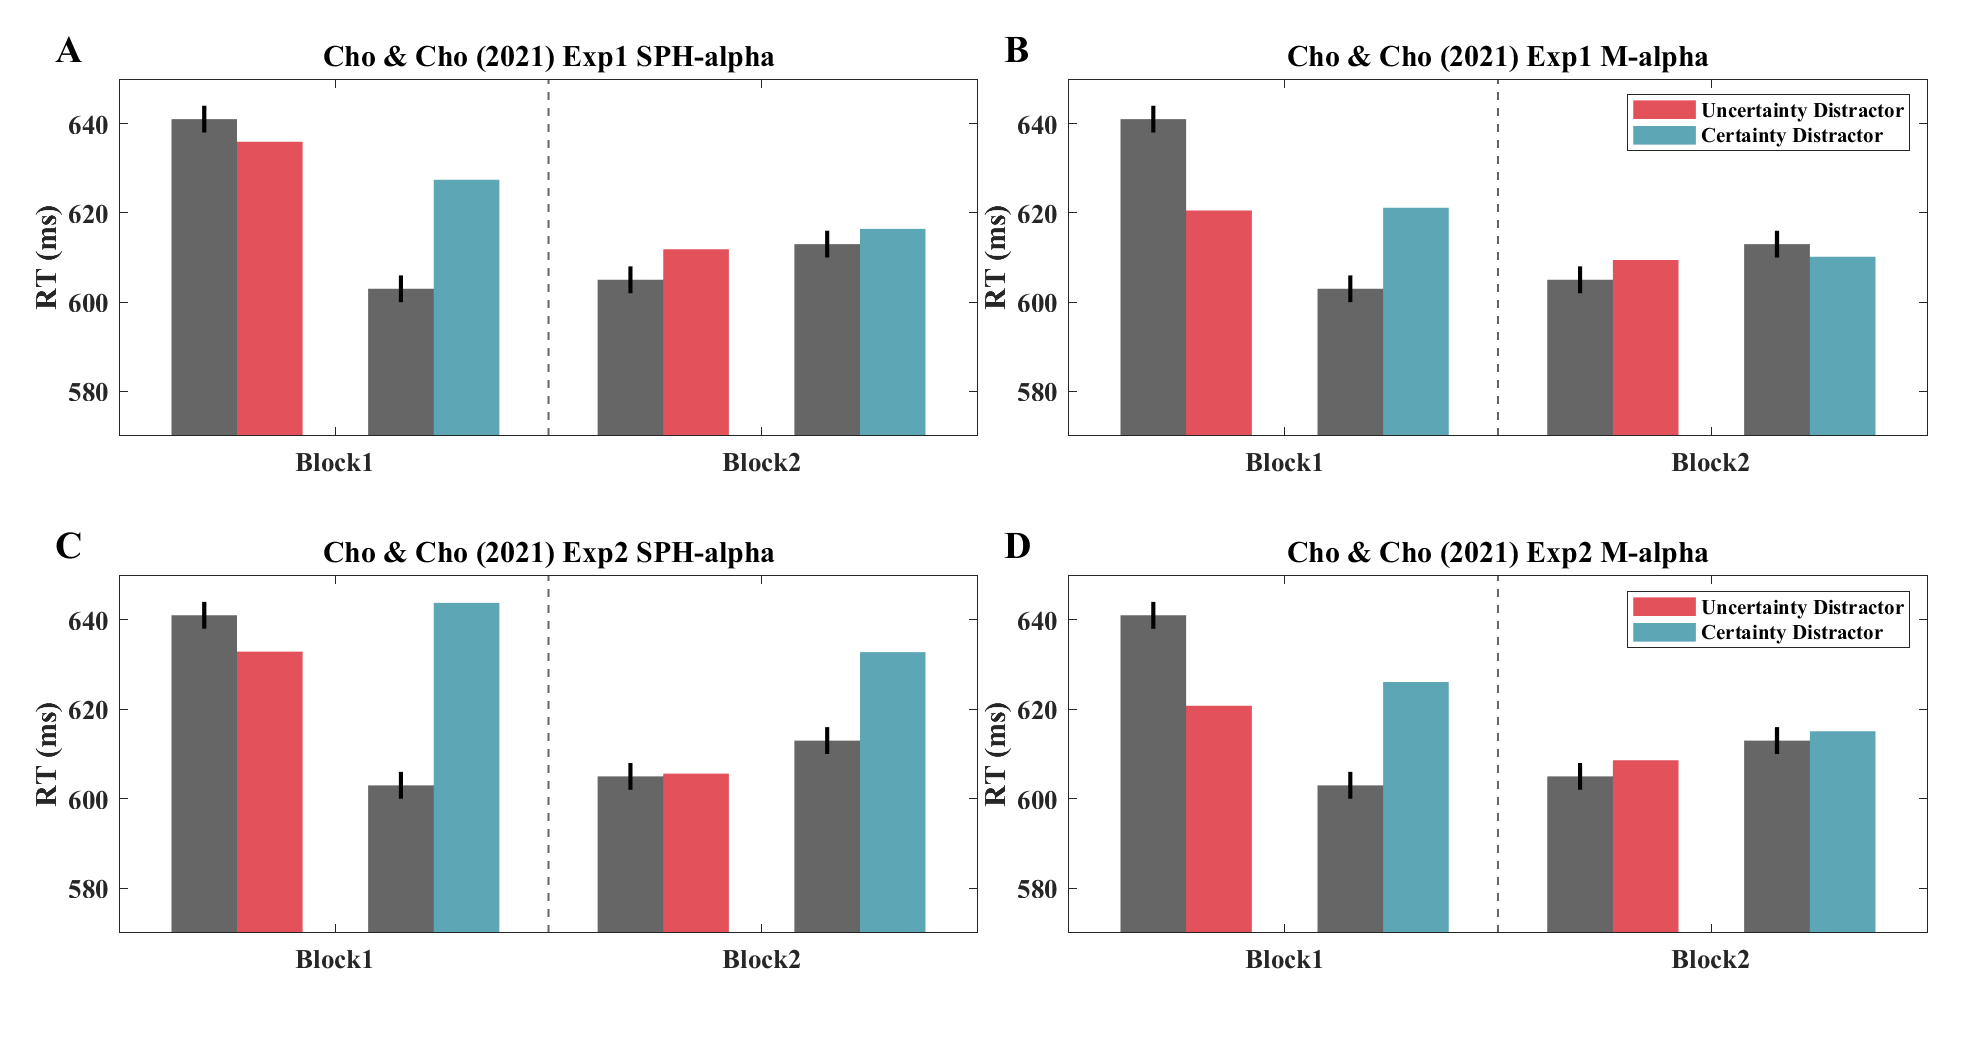
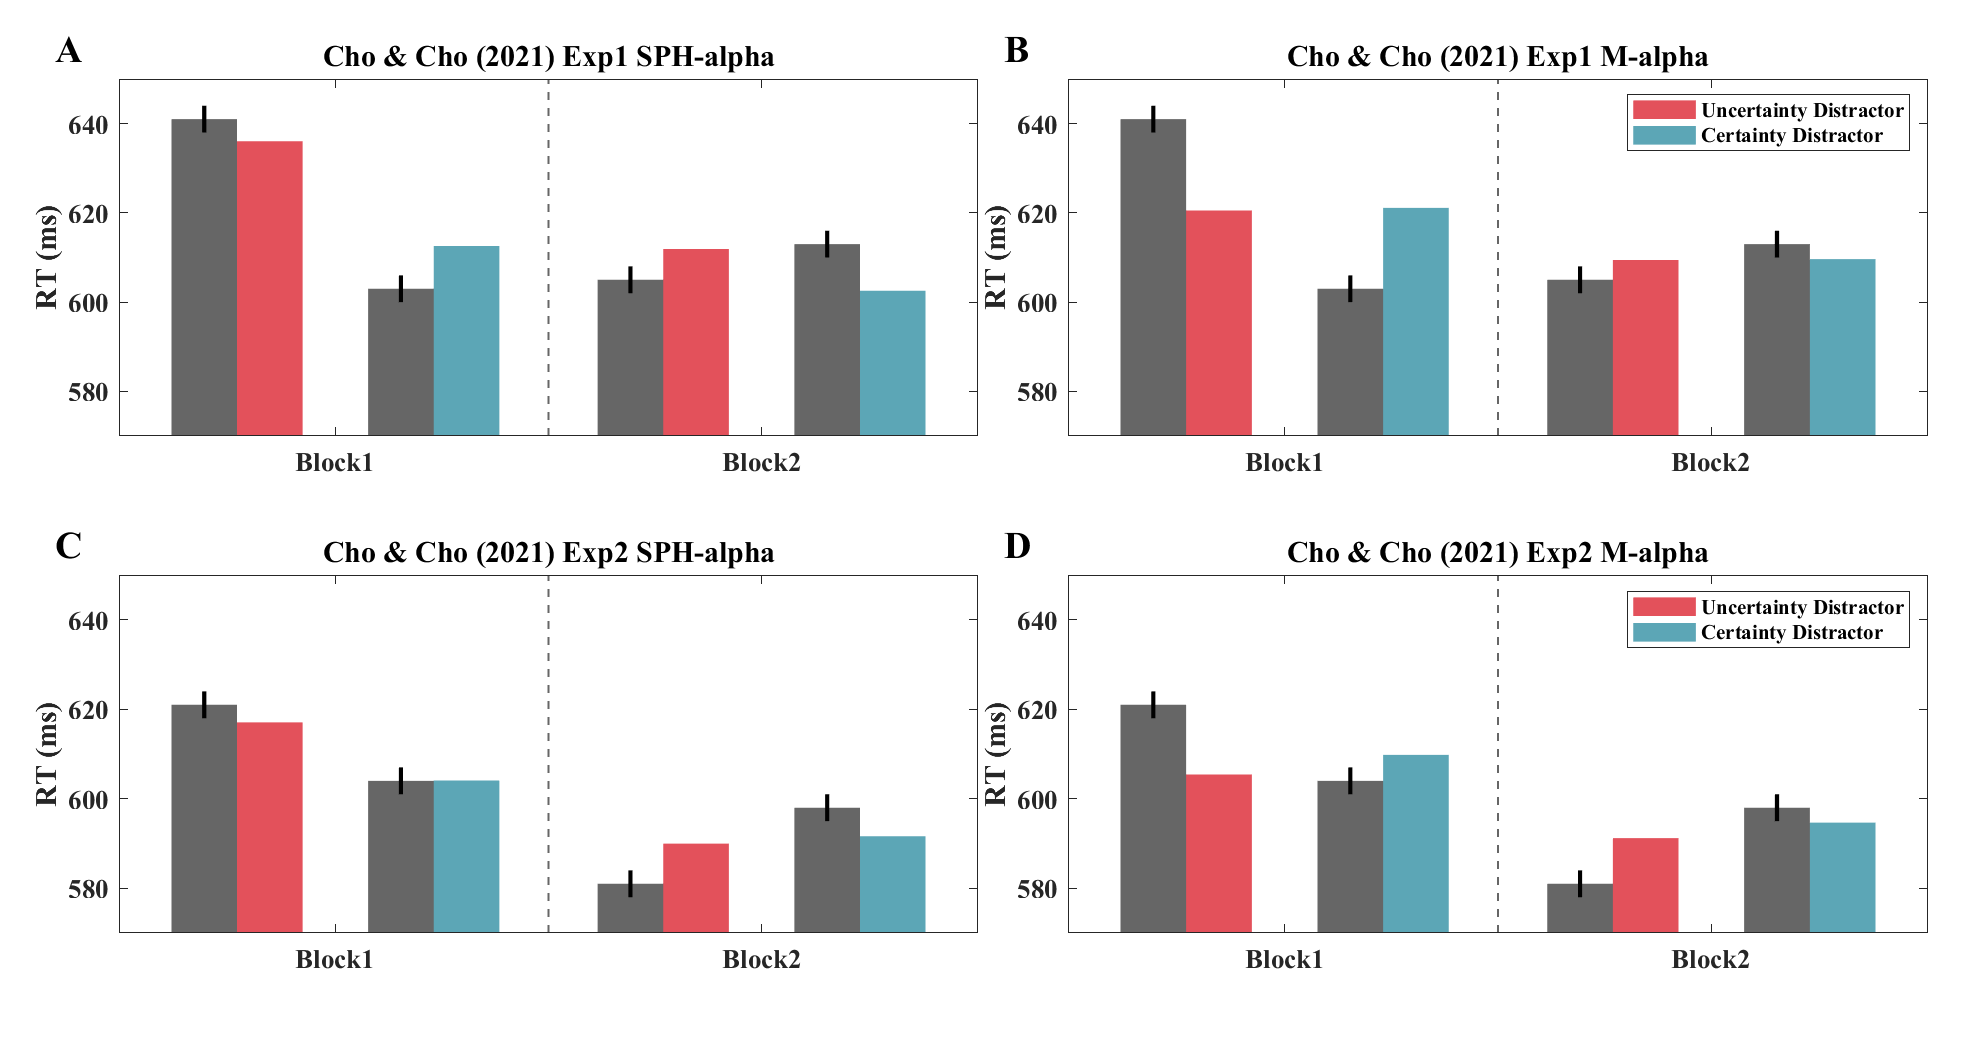
Figure modified (Fig3, Fig9)

diff --git a/VDAC/Figures/Fig3.m b/VDAC/Figures/Fig3.m
@@ -14,10 +14,10 @@ num_repeat = 500;
 
 fig = figure(3);
 clf(fig);
-fig.Position = [-1572,229,1265,671];
+fig.Position = [-1572,29,1265,895];
 
 %%%%%%%%%%%%%%%%%%%%%%%%%%%%%%%%%%%
-%%            Figure 3a          %%
+%%          Figure 3a top        %%
 %%%%%%%%%%%%%%%%%%%%%%%%%%%%%%%%%%%
 Anderson_et_al_PLOS1_2011;
 model = 'M';
@@ -25,10 +25,10 @@ value = 'alpha';
 Anderson_et_al_PLOS1_2011_result = load(strcat('../result_nll/Anderson_et_al_PLOS1_2011/', value, '/Anderson_et_al_PLOS1_2011_', value, '_result.mat'));
 X = Anderson_et_al_PLOS1_2011_result.output_result.(model).x;
 
-[negativeloglikelihood, V, alpha, SimulationResult, ExperimentResult, Model_element_number] = computeNLL2(X, schedule, model, num_repeat, ExperimentData, value);
+[negativeloglikelihood, V, alpha, SimulationResult, ExperimentResult, Model_element_number] = computeNLL_AndersonPLOS1(X, schedule, model, num_repeat, ExperimentData, value);
 
 % Plot
-ax1 = subplot(3,10,1:10);
+ax1 = subplot(4,10,1:10);
 hold on;
 [~,plot_1] = plot_shade(ax1, mean(alpha(:,1,:),3), std(alpha(:,1,:),0,3),'Color',CC.high,'LineWidth',2.3,'Shade',true);
 [~,plot_2] = plot_shade(ax1, mean(alpha(:,2,:),3), std(alpha(:,2,:),0,3),'Color',CC.low,'LineWidth',2,'Shade',true);
@@ -46,17 +46,17 @@ t.FontSize = 13;
 set(ax1, 'FontName', 'Times New Roman Bold');
 set(ax1, 'FontSize', 13);
 legend([plot_1{1}, plot_2{1}], {'high EV', 'low EV'}, 'FontSize',10);
-text(-50,250,'A', 'FontSize', 18, 'FontName', 'Times New Roman Bold', 'Units', 'pixels');
+text(-50,170,'A', 'FontSize', 18, 'FontName', 'Times New Roman Bold', 'Units', 'pixels');
 
 % Extend?
 ax1.Position = [ax1.Position(1)-0.07, ax1.Position(2), ax1.Position(3)+0.07*2, ax1.Position(4)];
 
 %%%%%%%%%%%%%%%%%%%%%%%%%%%%%%%%%%%
-%%            Figure 3b          %%
+%%          Figure 3a bot        %%
 %%%%%%%%%%%%%%%%%%%%%%%%%%%%%%%%%%%
 ax2 = cell(10,1);
 for i = 1 : 10
-    ax2{i} = subplot(3,10,10+i);
+    ax2{i} = subplot(4,10,10+i);
     cla(ax2{i});
     ax2{i}.View = [90, -90];
     hold on;
@@ -78,25 +78,91 @@ yticklabels({'900', '1000'});
 
 
 for i = 1 : 10
-    ax2{i}.Position = [ax2{i}.Position(1)-0.07+(0.012*(i-1)), ax2{i}.Position(2)+0.03, ax2{i}.Position(3)+0.03, ax2{i}.Position(4)+0.03];
+    ax2{i}.Position = [ax2{i}.Position(1)-0.07+(0.012*(i-1)), ax2{i}.Position(2)+0.01, ax2{i}.Position(3)+0.03, ax2{i}.Position(4)+0.03];
 end
 
+%%%%%%%%%%%%%%%%%%%%%%%%%%%%%%%%%%%
+%%            Figure 3b          %%
+%%%%%%%%%%%%%%%%%%%%%%%%%%%%%%%%%%%
+value = 'V';
+model = 'RW';
+Anderson_et_al_PLOS1_2011_result = load(strcat('../result_nll/Anderson_et_al_PLOS1_2011/', value, '/Anderson_et_al_PLOS1_2011_', value, '_result.mat'));
+X = Anderson_et_al_PLOS1_2011_result.output_result.(model).x;
+
+[negativeloglikelihood, V, alpha, SimulationResult, ExperimentResult, Model_element_number] = computeNLL_AndersonPLOS1(X, schedule, model, num_repeat, ExperimentData, value);
+
+% Plot
+ax3 = subplot(4,10,21:25);
+hold on;
+[~,plot_1] = plot_shade(ax3, mean(V(:,1,:),3), std(V(:,1,:),0,3),'Color',CC.high,'LineWidth',2.3,'Shade',true);
+[~,plot_2] = plot_shade(ax3, mean(V(:,2,:),3), std(V(:,2,:),0,3),'Color',CC.low,'LineWidth',2,'Shade',true);
+%axis tight
+
+% Axis
+xticks(0:100:1000);
+ylim([0,1]);
+ylabel('V');
+
+% Texts
+t = title('RW-V');
+t.Position(2) = 1.05;
+t.FontSize = 13;
+set(ax3, 'FontName', 'Times New Roman Bold');
+set(ax3, 'FontSize', 13);
+text(-50,160,'B', 'FontSize', 18, 'FontName', 'Times New Roman Bold', 'Units', 'pixels');
+
+% Extend?
+ax3.Position = [ax3.Position(1)-0.07, ax3.Position(2), ax3.Position(3)+0.03, ax3.Position(4)];
 
 %%%%%%%%%%%%%%%%%%%%%%%%%%%%%%%%%%%
 %%            Figure 3c          %%
+%%%%%%%%%%%%%%%%%%%%%%%%%%%%%%%%%%%
+value = 'V';
+model = 'M';
+Anderson_et_al_PLOS1_2011_result = load(strcat('../result_nll/Anderson_et_al_PLOS1_2011/', value, '/Anderson_et_al_PLOS1_2011_', value, '_result.mat'));
+X = Anderson_et_al_PLOS1_2011_result.output_result.(model).x;
+
+[negativeloglikelihood, V, alpha, SimulationResult, ExperimentResult, Model_element_number] = computeNLL_AndersonPLOS1(X, schedule, model, num_repeat, ExperimentData, value);
+
+% Plot
+ax4 = subplot(4,10,26:30);
+hold on;
+[~,plot_1] = plot_shade(ax4, mean(V(:,1,:),3), std(V(:,1,:),0,3),'Color',CC.high,'LineWidth',2.3,'Shade',true);
+[~,plot_2] = plot_shade(ax4, mean(V(:,2,:),3), std(V(:,2,:),0,3),'Color',CC.low,'LineWidth',2,'Shade',true);
+axis tight
+
+% Axis
+xticks(0:100:1000);
+ylim([0,1]);
+yl = ylabel('V');
+yl.Position(1) = -60;
+
+% Texts
+t = title('M-V');
+t.Position(2) = 1.05;
+t.FontSize = 13;
+set(ax4, 'FontName', 'Times New Roman Bold');
+set(ax4, 'FontSize', 13);
+text(-50,160,'C', 'FontSize', 18, 'FontName', 'Times New Roman Bold', 'Units', 'pixels');
+
+% Extend?
+ax4.Position = [ax4.Position(1)+0.01, ax4.Position(2), ax4.Position(3)+0.03, ax4.Position(4)];
+
+%%%%%%%%%%%%%%%%%%%%%%%%%%%%%%%%%%%
+%%            Figure 3d          %%
 %%%%%%%%%%%%%%%%%%%%%%%%%%%%%%%%%%%
 value = 'alpha';
 model = 'EH';
 Anderson_et_al_PLOS1_2011_result = load(strcat('../result_nll/Anderson_et_al_PLOS1_2011/', value, '/Anderson_et_al_PLOS1_2011_', value, '_result.mat'));
 X = Anderson_et_al_PLOS1_2011_result.output_result.(model).x;
 
-[negativeloglikelihood, V, alpha, SimulationResult, ExperimentResult, Model_element_number] = computeNLL2(X, schedule, model, num_repeat, ExperimentData, value);
+[negativeloglikelihood, V, alpha, SimulationResult, ExperimentResult, Model_element_number] = computeNLL_AndersonPLOS1(X, schedule, model, num_repeat, ExperimentData, value);
 
 % Plot
-ax3 = subplot(3,10,21:25);
+ax5 = subplot(4,10,31:35);
 hold on;
-[~,plot_1] = plot_shade(ax3, mean(alpha(:,1,:),3), std(alpha(:,1,:),0,3),'Color',CC.high,'LineWidth',2.3,'Shade',true);
-[~,plot_2] = plot_shade(ax3, mean(alpha(:,2,:),3), std(alpha(:,2,:),0,3),'Color',CC.low,'LineWidth',2,'Shade',true);
+[~,plot_1] = plot_shade(ax5, mean(alpha(:,1,:),3), std(alpha(:,1,:),0,3),'Color',CC.high,'LineWidth',2.3,'Shade',true);
+[~,plot_2] = plot_shade(ax5, mean(alpha(:,2,:),3), std(alpha(:,2,:),0,3),'Color',CC.low,'LineWidth',2,'Shade',true);
 %axis tight
 
 % Axis
@@ -110,44 +176,46 @@ ylabel('alpha');
 t = title('EH-alpha');
 t.Position(2) = 2.05;
 t.FontSize = 13;
-set(ax3, 'FontName', 'Times New Roman Bold');
-set(ax3, 'FontSize', 13);
+set(ax5, 'FontName', 'Times New Roman Bold');
+set(ax5, 'FontSize', 13);
+text(-50,160,'D', 'FontSize', 18, 'FontName', 'Times New Roman Bold', 'Units', 'pixels');
 
 % Extend?
-ax3.Position = [ax3.Position(1)-0.07, ax3.Position(2), ax3.Position(3)+0.06, ax3.Position(4)];
+ax5.Position = [ax5.Position(1)-0.07, ax5.Position(2), ax5.Position(3)+0.03, ax5.Position(4)];
 
 %%%%%%%%%%%%%%%%%%%%%%%%%%%%%%%%%%%
-%%            Figure 3d          %%
+%%            Figure 3e          %%
 %%%%%%%%%%%%%%%%%%%%%%%%%%%%%%%%%%%
-value = 'V';
-model = 'RW';
+value = 'alpha';
+model = 'SPH';
 Anderson_et_al_PLOS1_2011_result = load(strcat('../result_nll/Anderson_et_al_PLOS1_2011/', value, '/Anderson_et_al_PLOS1_2011_', value, '_result.mat'));
 X = Anderson_et_al_PLOS1_2011_result.output_result.(model).x;
 
-[negativeloglikelihood, V, alpha, SimulationResult, ExperimentResult, Model_element_number] = computeNLL2(X, schedule, model, num_repeat, ExperimentData, value);
+[negativeloglikelihood, V, alpha, SimulationResult, ExperimentResult, Model_element_number] = computeNLL_AndersonPLOS1(X, schedule, model, num_repeat, ExperimentData, value);
 
 % Plot
-ax4 = subplot(3,10,26:30);
+ax6 = subplot(4,10,36:40);
 hold on;
-[~,plot_1] = plot_shade(ax4, mean(V(:,1,:),3), std(V(:,1,:),0,3),'Color',CC.high,'LineWidth',2.3,'Shade',true);
-[~,plot_2] = plot_shade(ax4, mean(V(:,2,:),3), std(V(:,2,:),0,3),'Color',CC.low,'LineWidth',2,'Shade',true);
+[~,plot_1] = plot_shade(ax6, mean(alpha(:,1,:),3), std(alpha(:,1,:),0,3),'Color',CC.high,'LineWidth',2.3,'Shade',true);
+[~,plot_2] = plot_shade(ax6, mean(alpha(:,2,:),3), std(alpha(:,2,:),0,3),'Color',CC.low,'LineWidth',2,'Shade',true);
 axis tight
 
 % Axis
 xticks(0:100:1000);
 ylim([0,1]);
 xlabel('Trials');
-yl = ylabel('V');
-yl.Position(1) = -50;
+yl = ylabel('alpha');
+yl.Position(1) = -60;
 
 % Texts
-t = title('RW-V');
+t = title('SPH-alpha');
 t.Position(2) = 1.05;
 t.FontSize = 13;
-set(ax4, 'FontName', 'Times New Roman Bold');
-set(ax4, 'FontSize', 13);
+set(ax6, 'FontName', 'Times New Roman Bold');
+set(ax6, 'FontSize', 13);
+text(-50,160,'E', 'FontSize', 18, 'FontName', 'Times New Roman Bold', 'Units', 'pixels');
 
 % Extend?
-ax4.Position = [ax4.Position(1)+0.01, ax4.Position(2), ax4.Position(3)+0.06, ax4.Position(4)];
+ax6.Position = [ax6.Position(1)+0.01, ax6.Position(2), ax6.Position(3)+0.03, ax6.Position(4)];
 
 saveas(fig, 'Fig3.png');

diff --git a/VDAC/Figures/Fig9.m b/VDAC/Figures/Fig9.m
@@ -74,7 +74,7 @@ data = nan(2,5);
 for block = 1 : 2
     data(block,:) = [...
         ExperimentData.UncertaintyDistractor.Mean(block), mean(RT(testBlocks{block}(1):testBlocks{block}(2), 1, :), 'all'), nan,...
-        ExperimentData.CertaintyDistractor.Mean(block), mean(RT(testBlocks{block}(1):testBlocks{block}(2), 3, :), 'all')...
+        ExperimentData.CertaintyDistractor.Mean(block), mean(RT(testBlocks{block}(1):testBlocks{block}(2), 2, :), 'all')...
         ] + ExperimentData.NeutralRT(block);
 end
 
@@ -130,7 +130,7 @@ data = nan(2,5);
 for block = 1 : 2
     data(block,:) = [...
         ExperimentData.UncertaintyDistractor.Mean(block), mean(RT(testBlocks{block}(1):testBlocks{block}(2), 1, :), 'all'), nan,...
-        ExperimentData.CertaintyDistractor.Mean(block), mean(RT(testBlocks{block}(1):testBlocks{block}(2), 3, :), 'all')...
+        ExperimentData.CertaintyDistractor.Mean(block), mean(RT(testBlocks{block}(1):testBlocks{block}(2), 2, :), 'all')...
         ] + ExperimentData.NeutralRT(block);
 end
 
@@ -226,7 +226,7 @@ data = nan(2,5);
 for block = 1 : 2
     data(block,:) = [...
         ExperimentData.UncertaintyDistractor.Mean(block), mean(RT(testBlocks{block}(1):testBlocks{block}(2), 1, :), 'all'), nan,...
-        ExperimentData.CertaintyDistractor.Mean(block), mean(RT(testBlocks{block}(1):testBlocks{block}(2), 3, :), 'all')...
+        ExperimentData.CertaintyDistractor.Mean(block), mean(RT(testBlocks{block}(1):testBlocks{block}(2), 2, :), 'all')...
         ] + ExperimentData.NeutralRT(block);
 end
 
@@ -282,7 +282,7 @@ data = nan(2,5);
 for block = 1 : 2
     data(block,:) = [...
         ExperimentData.UncertaintyDistractor.Mean(block), mean(RT(testBlocks{block}(1):testBlocks{block}(2), 1, :), 'all'), nan,...
-        ExperimentData.CertaintyDistractor.Mean(block), mean(RT(testBlocks{block}(1):testBlocks{block}(2), 3, :), 'all')...
+        ExperimentData.CertaintyDistractor.Mean(block), mean(RT(testBlocks{block}(1):testBlocks{block}(2), 2, :), 'all')...
         ] + ExperimentData.NeutralRT(block);
 end
 
